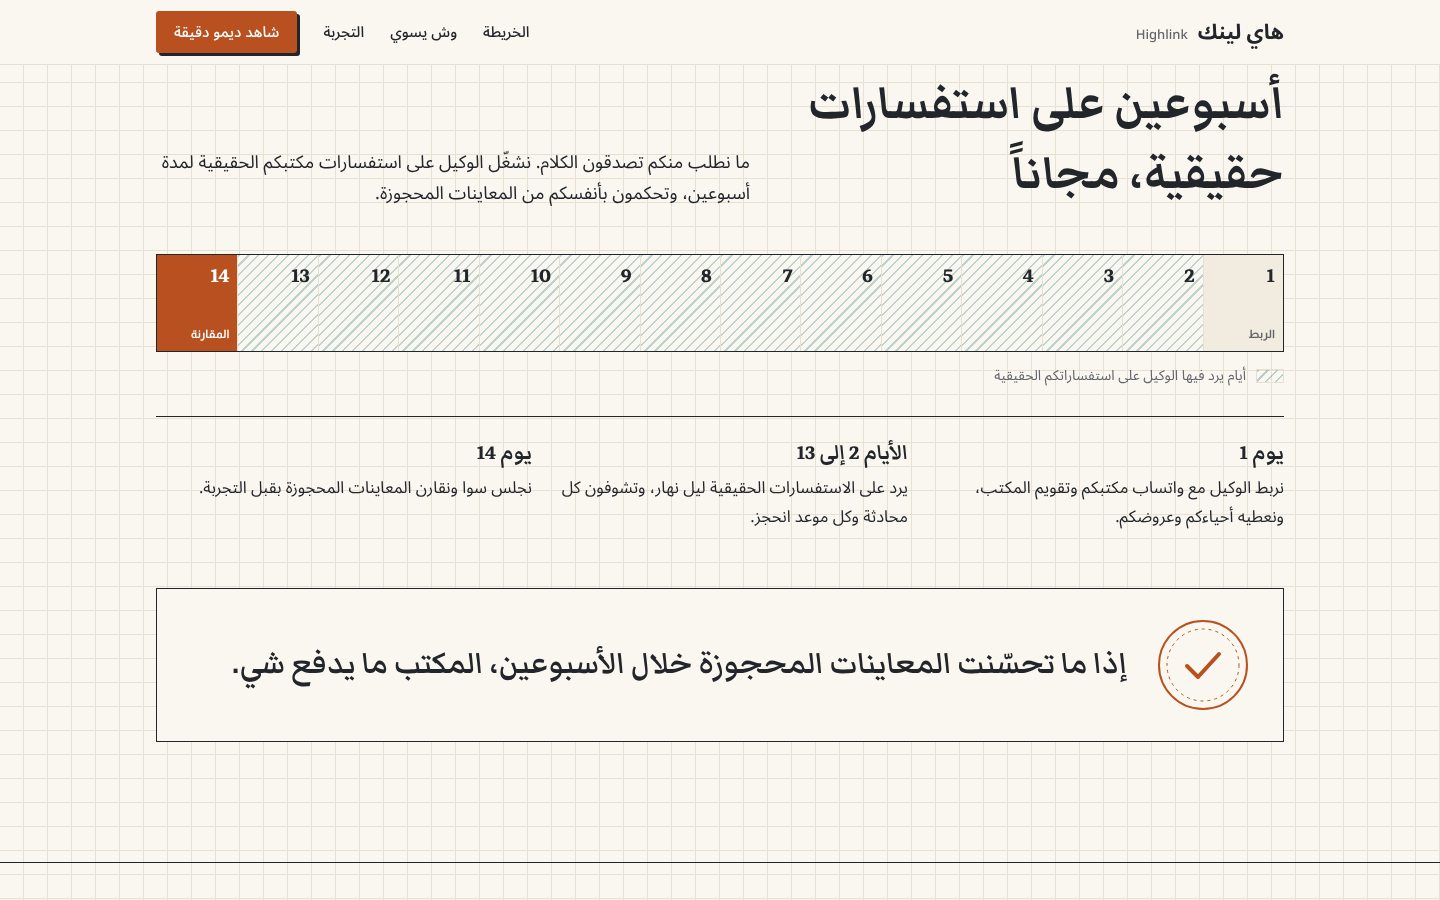
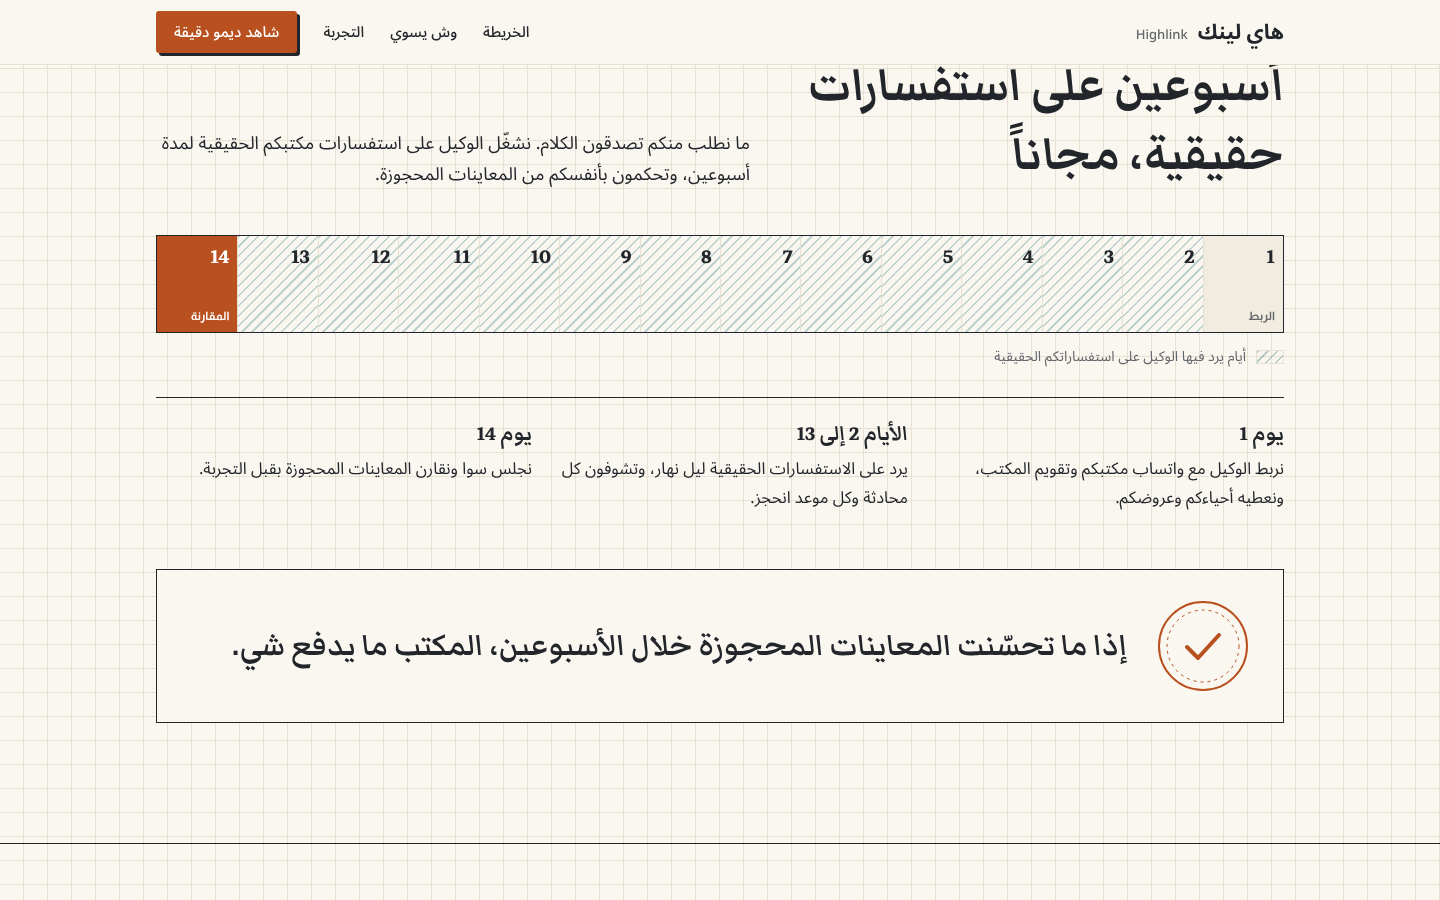
Run 2: site-b director round and gallery
Claude-Session: https://claude.ai/code/session_01CYWmR93YUjbtxaQfm32y4Y

diff --git a/fable-test-2/sites/index.html b/fable-test-2/sites/index.html
@@ -1,1 +1,59 @@
-<!doctype html><link rel="icon" href="data:,"><p>ok
+<!doctype html>
+<html lang="ar" dir="rtl">
+<head>
+<meta charset="utf-8">
+<meta name="viewport" content="width=device-width, initial-scale=1">
+<title>هاي لينك — الجولة ٢</title>
+<link rel="icon" href="data:,">
+<link rel="preconnect" href="https://fonts.googleapis.com">
+<link rel="preconnect" href="https://fonts.gstatic.com" crossorigin>
+<link href="https://fonts.googleapis.com/css2?family=IBM+Plex+Sans+Arabic:wght@400;500;700&display=swap" rel="stylesheet">
+<style>
+  :root{--bg:#F4F2EE;--ink:#141414;--muted:#5F5B55;--line:#D8D3CA;--card:#fff;--ease:cubic-bezier(.2,.8,.2,1)}
+  *{box-sizing:border-box}
+  body{margin:0;background:var(--bg);color:var(--ink);font-family:"IBM Plex Sans Arabic",sans-serif;line-height:1.6}
+  main{max-width:1240px;margin-inline:auto;padding:56px 24px 80px}
+  header{display:flex;justify-content:space-between;align-items:end;gap:16px;flex-wrap:wrap;border-bottom:2px solid var(--ink);padding-bottom:20px;margin-bottom:40px}
+  h1{font-size:clamp(28px,4vw,44px);margin:0;line-height:1.2;text-wrap:balance}
+  header p{margin:0;color:var(--muted)}
+  .grid{display:grid;grid-template-columns:repeat(3,1fr);gap:28px}
+  .card{background:var(--card);border:1px solid var(--line);border-radius:6px;overflow:hidden;color:inherit;text-decoration:none;display:flex;flex-direction:column;transition:transform .45s var(--ease),box-shadow .45s var(--ease)}
+  .card:hover,.card:focus-visible{transform:translateY(-4px);box-shadow:0 18px 40px -20px rgba(0,0,0,.35)}
+  .card:focus-visible{outline:3px solid var(--ink);outline-offset:3px}
+  .shots{position:relative;aspect-ratio:1440/900;background:#ddd;overflow:hidden}
+  .shots img{display:block;width:100%;height:100%;object-fit:cover;object-position:top}
+  .shots .m{position:absolute;left:12px;top:22%;width:18%;height:auto;aspect-ratio:390/844;object-fit:cover;object-position:top;border:3px solid var(--ink);border-radius:10px;box-shadow:0 8px 20px rgba(0,0,0,.3);transition:transform .5s var(--ease)}
+  .card:hover .m,.card:focus-visible .m{transform:translateY(-14%)}
+  .meta{padding:18px 20px 22px}
+  .tag{font-size:13px;color:var(--muted)}
+  h2{margin:2px 0 6px;font-size:22px}
+  .meta p{margin:0;color:var(--muted);font-size:15px}
+  footer{margin-top:48px;color:var(--muted);font-size:14px}
+  @media (max-width:900px){.grid{grid-template-columns:1fr}}
+  @media (prefers-reduced-motion:reduce){*{transition:none!important}}
+</style>
+</head>
+<body>
+<main>
+  <header>
+    <h1>هاي لينك — الجولة الثانية</h1>
+    <p>نفس العرض والمفاهيم الثلاثة، بإخراج فني جديد. اضغط على أي صفحة لفتحها.</p>
+  </header>
+  <div class="grid">
+    <a class="card" href="site-a/">
+      <div class="shots"><img src="thumbs/a-desktop.png" alt="لقطة سطح المكتب لصفحة ليلة المكتب"><img class="m" src="thumbs/a-mobile.png" alt="" aria-hidden="true"></div>
+      <div class="meta"><span class="tag">site-a · داكن</span><h2>ليلة المكتب</h2><p>مكتب مطفّي ينوّره جوال على الطاولة: إشعارات بالليل ومحادثة تنتهي بمعاينة محجوزة.</p></div>
+    </a>
+    <a class="card" href="site-b/">
+      <div class="shots"><img src="thumbs/b-desktop.png" alt="لقطة سطح المكتب لصفحة الخريطة"><img class="m" src="thumbs/b-mobile.png" alt="" aria-hidden="true"></div>
+      <div class="meta"><span class="tag">site-b · تحريري فاتح</span><h2>الخريطة</h2><p>دليل ميداني على ورق مربعات: اختر مدينة، الوكيل يرسم نطاقها ويوريك كيف يرد.</p></div>
+    </a>
+    <a class="card" href="site-c/">
+      <div class="shots"><img src="thumbs/c-desktop.png" alt="لقطة سطح المكتب لصفحة الدقيقة"><img class="m" src="thumbs/c-mobile.png" alt="" aria-hidden="true"></div>
+      <div class="meta"><span class="tag">site-c · بروتاليست</span><h2>الدقيقة</h2><p>الصفحة كلها دقيقة وحدة: ٦١ ثانية تنزل معك، والحجز يتم قبل ما تخلص.</p></div>
+    </a>
+  </div>
+  <footer>Highlink · <bdi>highlink.tech</bdi> · by Nuha Awad — نسخة مراجعة داخلية، غير منشورة.</footer>
+</main>
+</body>
+</html>

diff --git a/fable-test-2/sites/site-b/index.html b/fable-test-2/sites/site-b/index.html
@@ -64,25 +64,25 @@ bdi{unicode-bidi:isolate}
 .nav a.btn-cta, .nav a.btn-cta:hover{color:#fff}
 
 /* hero */
-.hero{padding-block:clamp(26px,4vw,48px) 28px}
-.hero-grid{display:grid; grid-template-columns:minmax(0,1.3fr) minmax(0,.7fr); gap:24px 64px; align-items:end}
+.hero{padding-block:clamp(26px,2.4vw,34px) 28px}
+.hero-grid{display:grid; grid-template-columns:minmax(0,1.3fr) minmax(0,.7fr); gap:14px 64px; align-items:end}
 .hero h1{font-size:clamp(40px,5vw,72px); line-height:1.15; margin-top:14px; font-weight:700; max-width:16em}
 .hero h1 em{font-style:normal; color:var(--teal); position:relative; white-space:nowrap}
 .hero h1 em::after{content:""; position:absolute; inset-inline:0; bottom:.06em; height:.09em; background:var(--orange); opacity:.85; transform-origin:right; transform:scaleX(0); transition:transform 1s .3s var(--ease-pen)}
 .ready .hero h1 em::after{transform:scaleX(1)}
 .hero .lede{font-size:19px; color:var(--ink); max-width:36em; margin-top:4px}
 .msg,.bub,.lede,.t-d{text-wrap:pretty}
-.hero .actions{display:flex; flex-wrap:wrap; gap:14px 28px; margin-top:28px; align-items:center}
+.hero .actions{display:flex; flex-wrap:wrap; gap:14px 28px; margin-top:22px; align-items:center}
 .textlink{color:var(--teal); font-weight:500; font-size:17px; text-decoration:underline; text-underline-offset:5px; text-decoration-thickness:1.5px; padding-block:6px}
 .textlink:hover{color:var(--ink)}
-.h1box{grid-column:1 / -1; grid-row:1; padding-inline-end:300px}
-.survey-meta{grid-column:2; grid-row:1; justify-self:end; align-self:start; width:270px; margin-top:44px; border-inline-start:2px solid var(--ink); padding-inline-start:20px; display:grid; gap:14px}
+.h1box{grid-column:1 / -1; grid-row:1; padding-inline-end:330px}
+.survey-meta{grid-column:2; grid-row:1; justify-self:end; align-self:start; width:310px; margin-top:18px; border-inline-start:2px solid var(--ink); padding-inline-start:20px; display:grid; gap:14px}
 .survey-meta dt{font-family:var(--f-label); font-weight:700; font-size:13px; color:var(--muted)}
 .survey-meta dd{margin:2px 0 0; font-size:16px; line-height:1.6}
 .survey-meta dl{margin:0; display:grid; gap:14px}
 
 /* map plate */
-.plate{margin-top:36px; background:var(--paper); border:1.5px solid var(--ink); position:relative}
+.plate{margin-top:28px; background:var(--paper); border:1.5px solid var(--ink); position:relative}
 .plate-head{display:flex; justify-content:space-between; align-items:center; gap:12px; padding:12px 20px; border-bottom:1px solid var(--ink); flex-wrap:wrap}
 .plate-head h2{font-size:24px; line-height:1.3}
 .plate-head .label{color:var(--muted)}

diff --git a/fable-test-2/sites/site-b/NOTES.md b/fable-test-2/sites/site-b/NOTES.md
@@ -56,3 +56,12 @@ Upgrade: a pen nib (an orange dot) rides the coverage line while it traces. It r
 - The coastline is stylised and only approximate. District positions are roughly placed, not surveyed.
 - Markazi Text 700 is heavy at h2 sizes in the dark demo section. A 600 weight might sit better.
 - The demo chat auto-plays once on scroll in about 3 seconds. That is fast for a "minute" demo, and the replay button is small.
+
+## Director round (`b-{d,m}-{top,map,mid,bot,q1,q3}-p5.png`, plus `b-x-*` city states)
+1. **Stray circle:** removed both `.plate::before/::after` corner circles. I didn't make them survey marks because they weren't doing any job. The plate frame is now a clean ruled border.
+2. **Desktop hero empty paper:** the spec column («نطاق المسح / ساعات العمل / القناة», now 310px so «المكتب» no longer wraps alone) shares grid row 1 with the headline and sits beside its top line. The h1 keeps 330px clear for it. I also tightened the hero padding and gaps (h1 max 72px). The plate's top edge moved from y≈600 to y≈525 at 1440×900, so the first screen now ends on the map with all four city tabs and the field-note heading in view.
+3. **Mobile map crop:** at ≤700px, `matchMedia` switches the viewBox from `40 30 520 670` to `0 30 560 670`. The graticule now runs to x=0. «القطيف» sits about 45px inside the frame, and «العوامية» is well clear of the edge when active.
+4. **Mobile orphan dots:** at 390, the districts of cities that aren't selected now carry faint labels (Almarai, 16 SVG units, graphite at 60%). The selected city's districts stay at full ink and 21 units. I checked all four city states and found no collisions.
+5. **Mobile secondary CTA:** the boxed «راسلنا بالإيميل» in the hero is now an underlined teal text link «راسلنا: highlink.sa@gmail.com», with the email in `<bdi dir="ltr">`. It is the same on desktop, where it sits beside the primary button.
+6. **Demo pace:** each message is now preceded by a typing indicator. Three bouncing dots appear on the speaker's side, with `role=status`, and the label reads «العميل يكتب…» or «الوكيل يكتب…». Customer messages take about 1.2s (0.7s typing + 0.5s hold) and agent messages about 1.7s (1.1s + 0.6s), for roughly 12s in total. Replay is now a solid 44px button with an icon, «أعد تشغيل الديمو». With reduced motion, everything shows at once.
+Errors: `[]` on every p5 shot and on the city/keyboard script. At 390, scrollWidth = clientWidth = 390.
